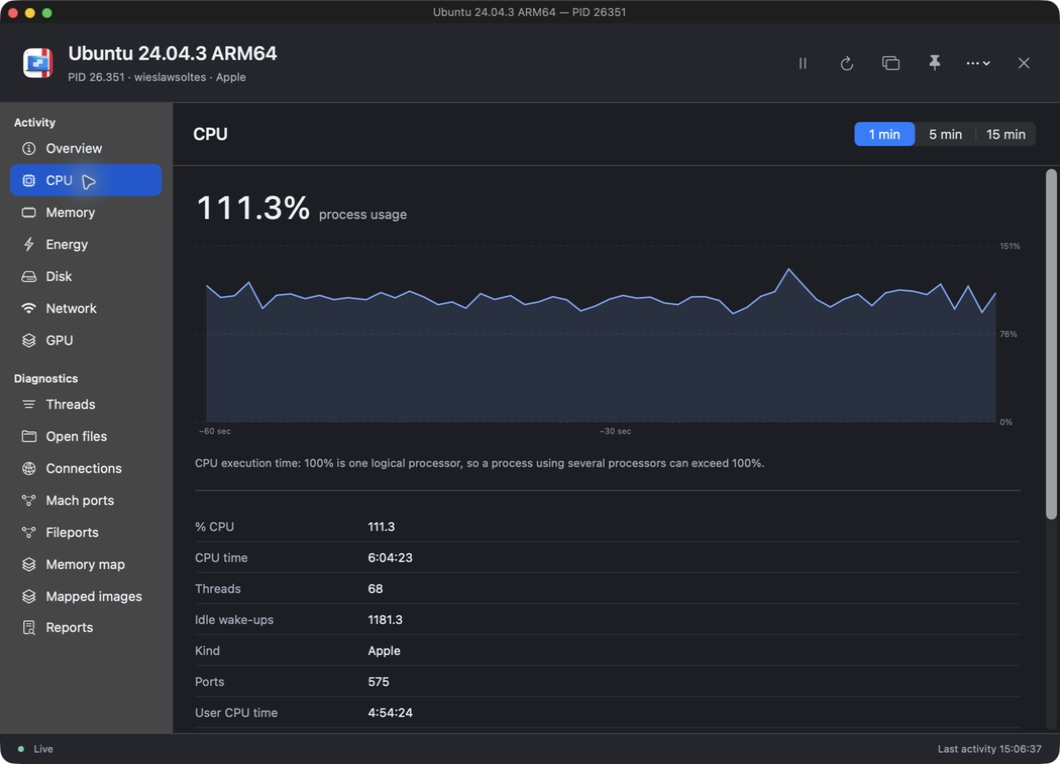
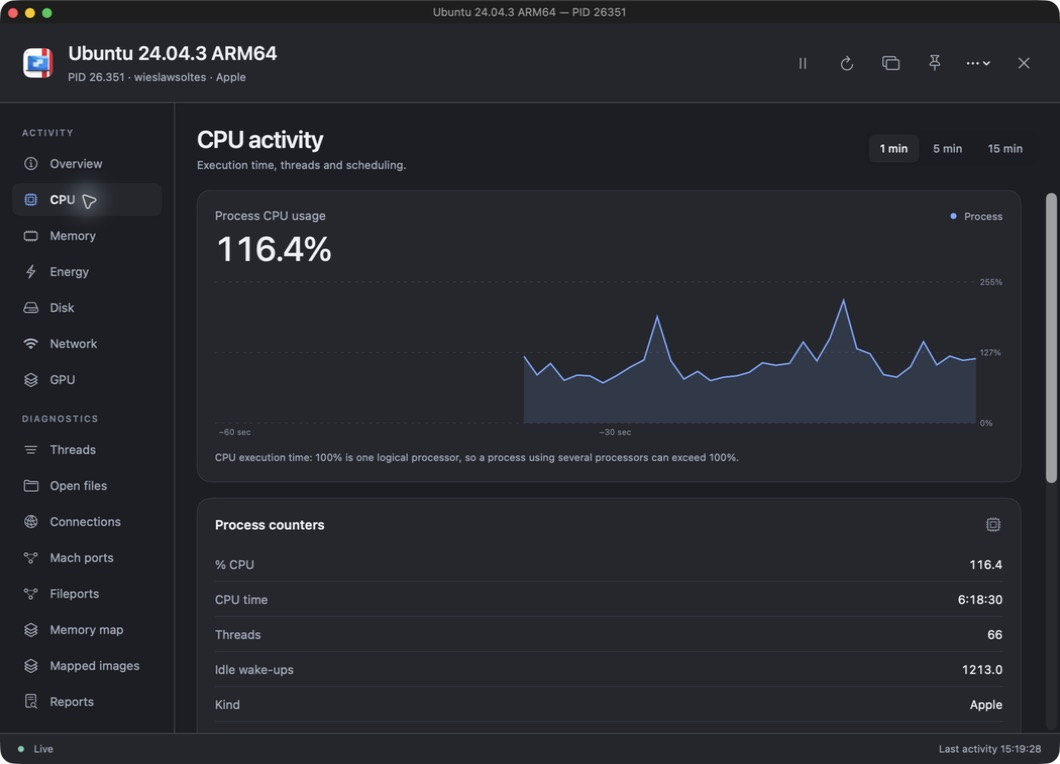
Document refined diagnostics and refresh light and dark screenshots

diff --git a/docs/diagnostics/VALIDATION.md b/docs/diagnostics/VALIDATION.md
@@ -5,7 +5,7 @@ Validated on 10 September 2026, on an Apple silicon Mac with 11 logical processo
 ## Automated checks
 
 - `swift test`: 103 tests, zero failures; five opt-in performance tests skipped in the normal run.
-- Release performance run: all 17 measurement budgets and memory gates passed. The 15-minute diagnostic workspace measured 93.24 ms median / 104.35 ms p95; the 2,500-row diagnostic table measured 51.46 ms median / 55.63 ms p95.
+- Release performance run: all 17 measurement budgets and memory gates passed. The 15-minute diagnostic workspace measured 61.43 ms median / 65.12 ms p95; the 2,500-row diagnostic table measured 38.38 ms median / 40.79 ms p95.
 - Performance gate tests: six passed. Packaging/notarization failure-path tests: six passed.
 - Universal release build: arm64 and x86_64 compiled successfully.
 - App signature, DMG integrity, ZIP contents, version, Applications link and SHA-256 checksums verified for the local 1.6.0 candidate. It is ad-hoc signed, not notarized or published.
@@ -19,6 +19,14 @@ Validated on 10 September 2026, on an Apple silicon Mac with 11 logical processo
 - Pinned a process, opened its popover, changed CPU to Memory, paused/resumed, and reopened the tool window. Closing the window retained the pinned session and its report.
 - Verified light/dark appearances and captured the process workspace and host CPU overview. Automated rendering covers all 15 pages in both appearances at two sizes.
 - Host CPU displayed values above 100% with an 1100% axis maximum on the local 11-logical-processor machine. A 16-processor fixture reaches a 1600% maximum.
+
+## Design refinement
+
+All 15 pages now share the main monitor’s theme, rounded panels, typography, history controls and hover feedback. Overview groups all collected fields without dropping unknown counters; activity pages show charts and process counters; the seven native tables share an entry/filter/export toolbar, viewport scrollbars and clear empty states. Reports provide a chooser and a separate reading surface.
+
+After refinement, the full 103-test suite passed. The final focused rendering suite passed all pages in both appearances at 760 × 500 and 1060 × 740, including explicit checks that all seven tables are present. Native checks confirmed arrow-key sidebar navigation, a filtered-empty table, readable long paths, a completed memory report and both appearances. Updated screenshots are in the [user guide](README.md#appearances).
+
+The universal 1.6.0 local candidate was rebuilt and its DMG/ZIP contents verified after these changes.
 
 ## Limits
 

diff --git a/docs/diagnostics/README.md b/docs/diagnostics/README.md
@@ -2,6 +2,8 @@
 
 Open **Process diagnostics…** from a process’s context menu or inspector. Use **Open in tool window** to keep it beside your main monitor. The window’s overlapping-rectangles button makes it float above other windows.
 
+The workspace uses the same surfaces, typography, history controls and selection accents as the main monitor. Overview groups identity, access, CPU, memory and resource details. Activity pages pair a chart with process counters; table pages keep filters and exports above the list. Long paths wrap within their panels.
+
 The workspace provides:
 
 - **Overview:** executable and working directories, start time, identity and credentials, scheduling, virtual and resident memory, faults, syscalls, messages, wake-ups, resource counters, and parent/child navigation.
@@ -16,6 +18,15 @@ The workspace provides:
 - **Reports:** stack sampling, complete `lsof` output, `vmmap`, launch arguments, environment, code signature, and entitlements. Reports are collected only on request.
 
 Tables support column resizing, double-click fitting, drag reordering, sorting, header-menu visibility, multiple selection, keyboard navigation, ⌘C, and Finder reveal for file paths. Column layouts are remembered separately per diagnostic table. Filter and export tables as CSV, save reports as text, or export the collected process snapshot, history and reports as JSON.
+
+## Appearances
+
+| View | Light | Dark |
+| :--- | :---: | :---: |
+| Overview | ![Overview light](../screenshots/diagnostics/overview-light.jpg) | ![Overview dark](../screenshots/diagnostics/overview-dark.jpg) |
+| CPU activity | ![CPU light](../screenshots/diagnostics/cpu-light.jpg) | ![CPU dark](../screenshots/diagnostics/cpu-dark.jpg) |
+| Threads | ![Threads light](../screenshots/diagnostics/threads-light.jpg) | ![Threads dark](../screenshots/diagnostics/threads-dark.jpg) |
+| Reports | ![Report result light](../screenshots/diagnostics/reports-light.jpg) | ![Report chooser dark](../screenshots/diagnostics/reports-dark.jpg) |
 
 ## Menu bar pins
 
